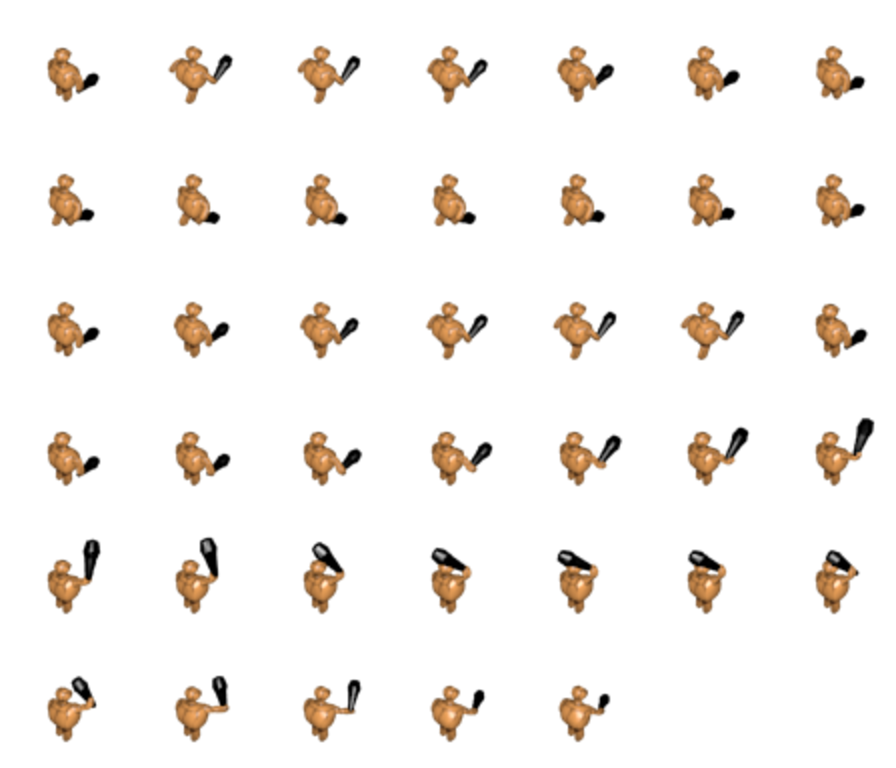
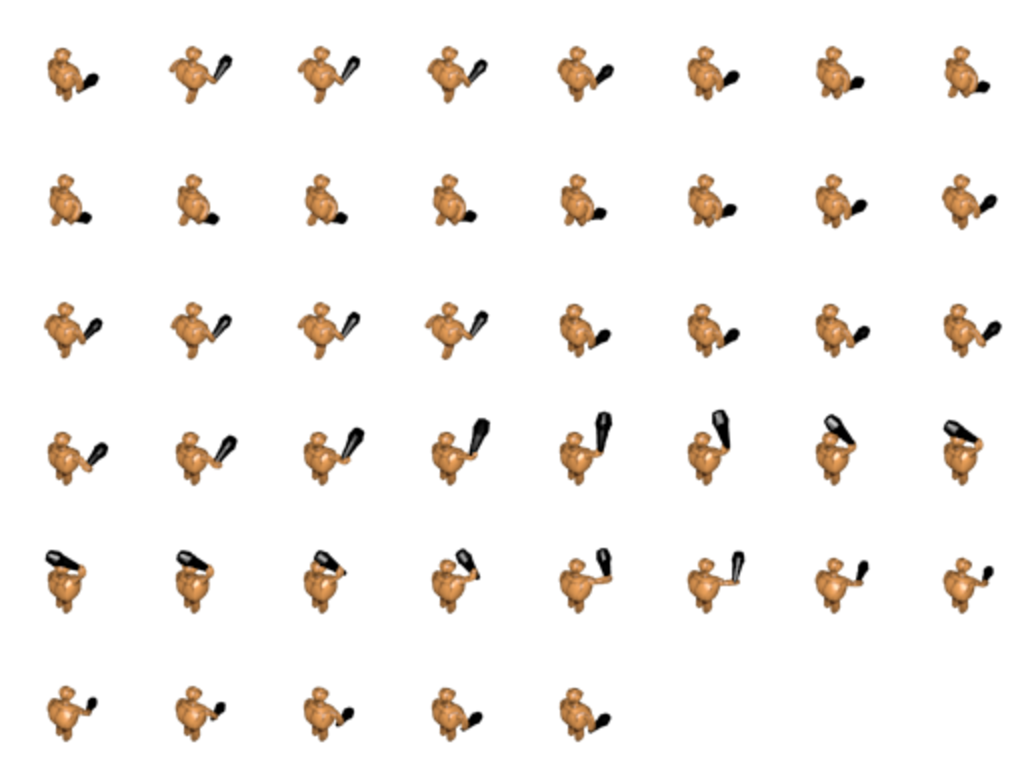
breaks stuff, need to get selection working

diff --git a/index.html b/index.html
@@ -1,4 +1,4 @@
-<canvas id="myCanvas" width="200" height="200" style="border:1px solid #000000;">
+<canvas id="myCanvas" width="640" height="480" style="border:1px solid #000000;">
 </canvas>
 <script>
 var connection = new WebSocket('ws://192.168.1.19:8888/ws');
@@ -16,17 +16,89 @@ function getMousePos(canvas, evt) {
   };
 }
 var c = document.getElementById("myCanvas");
+c.requestPointerLock = c.requestPointerLock ||
+  c.mozRequestPointerLock ||
+  c.webkitRequestPointerLock;
+document.exitPointerLock = document.exitPointerLock ||
+  document.mozExitPointerLock ||
+  document.webkitExitPointerLock;
+/*
+document.exitPointerLock = document.exitPointerLock ||
+  document.mozExitPointerLock ||
+  document.webkitExitPointerLock;
+  document.exitPointerLock();
+*/
+game={}
+game.screen={offset:{x:0,y:0},dim:{w:c.width,h:c.height}}
+game.cursorAnim={prefix:"hand",time:0,num:0,cols:1,rows:1,end:0,start:0,speed:1,size:{w:150,h:150},ssize:{x:512,y:512}}
+game.cursor={canvas:c,anim:game.cursorAnim,pos:{x:0,y:0},locked:false}
+function changeCallback(e){
+
+  if(document.pointerLockElement === game.cursor.canvas ||
+    document.mozPointerLockElement === game.cursor.canvas ||
+    document.webkitPointerLockElement === game.cursor.canvas) {
+    game.cursor.locked=true
+  } else {
+    game.cursor.locked=false
+  }
+  //game.cursor.pos.x=0
+  //game.cursor.pos.y=0
+}
+document.addEventListener('pointerlockchange', changeCallback, false);
+document.addEventListener('mozpointerlockchange', changeCallback, false);
+document.addEventListener('webkitpointerlockchange', changeCallback, false);
 c.addEventListener('mousemove', function(evt) {
-  var mousePos = getMousePos(c, evt);
-  var message = 'Mouse position: ' + mousePos.x + ',' + mousePos.y;
-  //console.log(message);
+  var dx = evt.movementX ||
+    evt.mozMovementX ||
+    evt.webkitMovementX ||
+    0
+  var dy = evt.movementY ||
+    evt.mozMovementY ||
+    evt.webkitMovementY ||
+    0
+  if (dx>30)
+    dx=30
+  if (dy>30)
+    dy=30
+  if (dx<-30)
+    dx=-30
+  if (dy<-30)
+    dy=-30
+  if(game.cursor.locked)
+    game.cursor.pos=add(game.cursor.pos, {x:dx,y:dy})
+  if(game.cursor.pos.x<0){
+    diffX=game.cursor.pos.x
+    game.screen.offset.x+=diffX
+    game.cursor.pos.x=0
+  }
+  if(game.cursor.pos.x>game.screen.dim.w){
+    diffX=game.cursor.pos.x-game.screen.dim.w
+    game.screen.offset.x+=diffX
+    game.cursor.pos.x=game.screen.dim.w
+  }
+  if(game.cursor.pos.y<0){
+    diffY=game.cursor.pos.y
+    game.screen.offset.y+=diffY
+    game.cursor.pos.y=0
+  }
+  if(game.cursor.pos.y>game.screen.dim.h){
+    diffY=game.cursor.pos.y-game.screen.dim.h
+    game.screen.offset.y+=diffY
+    game.cursor.pos.y=game.screen.dim.h
+  }
+  //var mousePos = getMousePos(c, evt);
+  //var message = 'Mouse position: ' + mousePos.x + ',' + mousePos.y;
 }, false);
 c.addEventListener('mouseup', function(evt) {
-  var mousePos = getMousePos(c, evt);
-  ogre.dest.x=mousePos.x
-  ogre.dest.y=mousePos.y
-  //var message = 'Mouse position: ' + mousePos.x + ',' + mousePos.y;
-  //console.log(message);
+  if(!game.cursor.locked)
+    c.requestPointerLock();
+  else{
+    //var mousePos = getMousePos(c, evt);
+    ogre.destType="move"
+    ogre.dest.x=game.cursor.pos.x+game.screen.offset.x
+    ogre.dest.y=game.cursor.pos.y+game.screen.offset.y
+    //var message = 'Mouse position: ' + mousePos.x + ',' + mousePos.y;
+  }
 });
 function getDiff(v1,v2){
   return {x:v2.x-v1.x,y:v2.y-v1.y}
@@ -43,6 +115,12 @@ function scl(v,s){
 function add(v1,v2){
   return {x:v1.x+v2.x,y:v1.y+v2.y}
 }
+function cpy(v){
+  return {x:v.x, y:v.y}
+}
+function log(v){
+  return "{x:"+v.x+", y:"+v.y+"}"
+}
 function drawAnim(pos,anim,ang,dt,ctx){
   if (ang<0)
     ang+=360
@@ -50,8 +128,8 @@ function drawAnim(pos,anim,ang,dt,ctx){
     ang-=360
   imgName=anim.prefix+ang+".png"
   img=loadedImgs[imgName]
-  w=128
-  h=128
+  w=anim.ssize.x
+  h=anim.ssize.y
   rows=anim.rows
   cols=anim.cols
   if (anim.num<anim.start)
@@ -63,37 +141,66 @@ function drawAnim(pos,anim,ang,dt,ctx){
   //anim.num+=1
   //margin=1
   anim.time+=dt
-  //console.log(anim.time)
   while(anim.time>=50){
     anim.time-=50
     anim.num++
   }
+  looped=false
   if (anim.start!=anim.end){
     while(anim.num>=anim.end){
       anim.num-=(anim.end-anim.start)
+      looped=true
     }
   }
+  return looped
 }
+function checkTypes(types,chtypes){
+  for (var ti in chtypes){
+    var inTypes=false
+    for (var tc in types)
+      if (chtypes[ti]==types[tc])
+        inTypes=true
+    if (!inTypes)
+      return false
+  }
+  return true
+}
+function removeTypes(types,rmTypes){
+  for (var ti in rmTypes){
+    for (var tc=0;tc<types.length;++tc){
+      if (rmTypes[ti]==types[tc]){
+        types.splice(tc,1)
+        tc-=1
+      }
+    } 
+  }
+}
+smash = new Audio('smash.ogg');
+destroy = new Audio('destroy.ogg');
 //imgs=['test.png','testW.png','testW2.png','test180.png']
-imgs=['test.png','houseImg0.png']
+imgs=['test.png','houseImg0.png','hand0.png','rubble0.png']
 ogreAngs=[]
 for (var ang=0;ang<360;ang+=45){
   imgName='ogre/ang'+ang+'.png'
   imgs.push(imgName)
   ogreAngs.push(imgName)
 }
-objs=[]
+game.objs=[]
 for (var i=0;i<1;++i){
-  walkAnim={prefix:"ogre/ang",time:0,num:0,cols:7,rows:6,end:20,start:1,speed:1,size:{w:100,h:100}}
-  standAnim={prefix:"ogre/ang",time:0,num:0,cols:7,rows:6,end:0,start:0,speed:1,size:{w:100,h:100}}
-  attackAnim={prefix:"ogre/ang",time:0,num:0,cols:7,rows:6,end:40,start:21,speed:1,size:{w:200,h:200}}
-  ogre={anims:{walk:walkAnim,stand:standAnim,attack:attackAnim},anim:standAnim,pos:{x:0,y:0},dest:{x:0,y:0},lastAng:0}
-  objs.push(ogre)
+  walkAnim={prefix:"ogre/ang",time:0,num:0,cols:8,rows:6,end:20,start:1,speed:1,size:{w:100,h:100},ssize:{x:128,y:128}}
+  standAnim={prefix:"ogre/ang",time:0,num:0,cols:8,rows:6,end:0,start:0,speed:1,size:{w:100,h:100},ssize:{x:128,y:128}}
+  attackAnim={prefix:"ogre/ang",time:0,num:0,cols:8,rows:6,end:45,start:21,speed:1,size:{w:100,h:100},ssize:{x:128,y:128}}
+  ogre={z:1,maxhp:10,dmg:5,types:['unit','friendly','alive'],anims:{walk:walkAnim,stand:standAnim,attack:attackAnim},anim:standAnim,pos:{x:0,y:0},dest:{x:0,y:0},lastAng:0}
+  ogre.hp=ogre.maxhp
+  game.objs.push(ogre)
 }
+for (var i=1;i<5;++i)
 {
-  anim={prefix:"houseImg",time:0,num:0,cols:1,rows:1,end:0,start:0,speed:1,size:{w:150,h:150}}
-  house={anims:{stand:anim},pos:{x:40,y:40},dest:{x:40,y:40},lastAng:0}
-  objs.push(house)
+  anim={prefix:"houseImg",time:0,num:0,cols:1,rows:1,end:0,start:0,speed:1,size:{w:150,h:150},ssize:{x:128,y:128}}
+  deadAnim={prefix:"rubble",time:0,num:0,cols:1,rows:1,end:0,start:0,speed:1,size:{w:140,h:70},ssize:{x:164,y:107}}
+  house={z:-1,maxhp:30,types:['building','enemy','alive'],anims:{dead:deadAnim,stand:anim},pos:{x:140*i,y:140*i},dest:{x:40,y:40},lastAng:0}
+  house.hp=house.maxhp
+  game.objs.push(house)
 }
 imgsLoaded=0
 loadedImgs={}
@@ -112,7 +219,7 @@ for (s in imgs){
 //which=0
 lastTime=0
 function loop(){
-  setTimeout(loop,50);
+  requestAnimationFrame(loop);
   var curTime=new Date().getTime();
   if (lastTime==0)
     lastTime=curTime
@@ -121,36 +228,105 @@ function loop(){
   var c = document.getElementById("myCanvas");
   var ctx = c.getContext("2d");
   ctx.clearRect(0, 0, c.width, c.height);
+  /*
   ctx.beginPath();
   ctx.arc(95,50,40,0,2*Math.PI);
   ctx.stroke();
-  ctx.drawImage(loadedImgs['test.png'],20,20,40,40,10,10,70,70);
+  */
+  //ctx.drawImage(loadedImgs['test.png'],20,20,40,40,10,10,70,70);
   //walks=['testW.png','testW2.png','test180.png']
-  for (var i in objs){
-    var obj=objs[i]
+  for (var i=0;i<game.objs.length-1;++i){
+    var o1=game.objs[i]
+    var o2=game.objs[i+1]
+    if(o2.z<o1.z){
+      //swap
+      game.objs[i]=o2
+      game.objs[i+1]=o1
+      if(i>0)
+        i-=1
+    }
+  }
+  for (var i in game.objs){
+    var obj=game.objs[i]
     //walks=ogreAngs
     //img=loadedImgs[walks[Math.floor(which/2)%walks.length]]
     //img=loadedImgs[ogreAngs[0]]
-    var diff=getDiff(obj.pos,obj.dest)
-    var len=getLen(diff)
-    if (len>10){
-      var nor=scl(diff,1/len)
-      nor=scl(nor,dt*(1/30))
-      obj.pos=add(obj.pos,nor)
-      var ang=getAng(nor)/Math.PI*180
-      ang=(Math.round(ang/45)*45-90)
-      obj.lastAng=ang
-      obj.anim=obj.anims.walk
-    }else{
-      obj.anim=obj.anims.stand
+    attacking=false
+    if(checkTypes(obj.types,['alive'])){
+      if (obj.hp<=0){
+        destroy.play()
+        removeTypes(obj.types,['alive'])
+        obj.anim=obj.anims.dead
+      }
+    }
+    if(checkTypes(obj.types,['alive'])){
+      var diff={x:0,y:0}
+      if(obj.destType=="move"){
+        diff=getDiff(obj.pos,obj.dest)
+      }else
+      if(obj.destType=="attack"){
+        if(checkTypes(obj.dest.types,['alive']))
+          diff=getDiff(obj.pos,obj.dest.pos)
+        else{
+          obj.destType="move"
+          obj.dest=cpy(obj.pos)
+        }
+      }
+      var len=getLen(diff)
+      if (obj.destType=="attack" && len < 60){//should calc target size and this range to see if we're in range
+        attacking=true
+        obj.anim=obj.anims.attack
+        var ang=getAng(diff)/Math.PI*180
+        ang=(Math.round(ang/45)*45-90)
+        obj.lastAng=ang
+      }else
+      if (len>10){
+        //reset attack:
+        obj.anims.attack.num=0
+        obj.anims.attack.time=0
+        var nor=scl(diff,1/len)
+        nor=scl(nor,dt*(1/30))
+        obj.pos=add(obj.pos,nor)
+        var ang=getAng(nor)/Math.PI*180
+        ang=(Math.round(ang/45)*45-90)
+        obj.lastAng=ang
+        obj.anim=obj.anims.walk
+      }else{
+        if(checkTypes(obj.types,['unit','friendly'])){
+          bestTarget=null
+          for (var c=0;c<game.objs.length;++c){
+            if(c!=i){
+              var objc=game.objs[c]
+              if(checkTypes(objc.types,['enemy','alive'])){
+                var diff=getDiff(obj.pos,objc.pos)
+                var len=getLen(diff)
+                if(bestTarget==null||len<bestTarget.len){
+                  bestTarget={obj:objc,len:len}
+                }
+              }
+            }
+            if(bestTarget!=null&&bestTarget.len<300){
+              obj.destType="attack"
+              obj.dest=bestTarget.obj
+            }
+          }
+        }
+        obj.anim=obj.anims.stand
+      }
     }
     ang=obj.lastAng
-    drawAnim(obj.pos,obj.anim,ang,dt,ctx)
+    var looped=drawAnim(add(obj.pos,scl(game.screen.offset,-1)),obj.anim,ang,dt,ctx)
+    if(looped&&attacking){
+      smash.play()
+      obj.dest.hp-=obj.dmg
+    }
     //if (obj.anim.num+margin==obj.anim.end){
     //  obj.anim.num=1
       //which++
     //}
   }
+  drawAnim(game.cursor.pos,game.cursor.anim,0,dt,ctx)
+  
 }
 var ogg = new Audio('test.ogg');
 //ogg.src="test.ogg";

diff --git a/app.py b/app.py
@@ -26,7 +26,7 @@ app = web.Application([
   (r'/', IndexHandler),
   (r'/ws', Connection),
   (r'/([a-zA-Z0-9_/]*.png)', web.StaticFileHandler, {'path': './'}),
-  (r'/(\w*.ogg)', web.StaticFileHandler, {'path': './'}),
+  (r'/([a-zA-Z0-9_/]*.ogg)', web.StaticFileHandler, {'path': './'}),
   #(r'/(rest_api_example.png)', web.StaticFileHandler, {'path': './'}),
 ])
 
